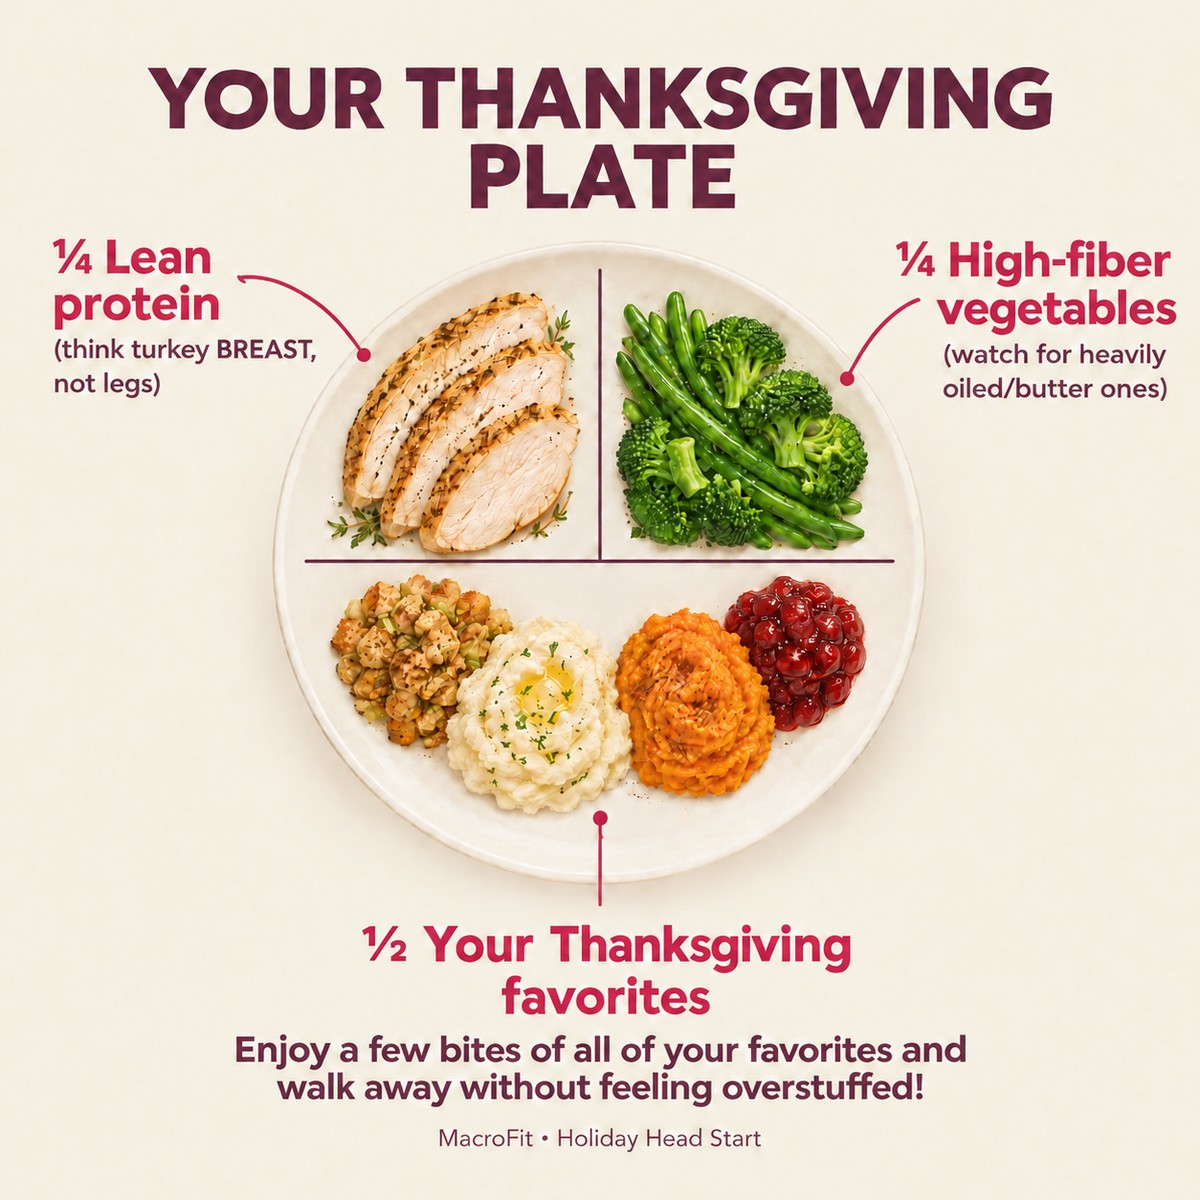
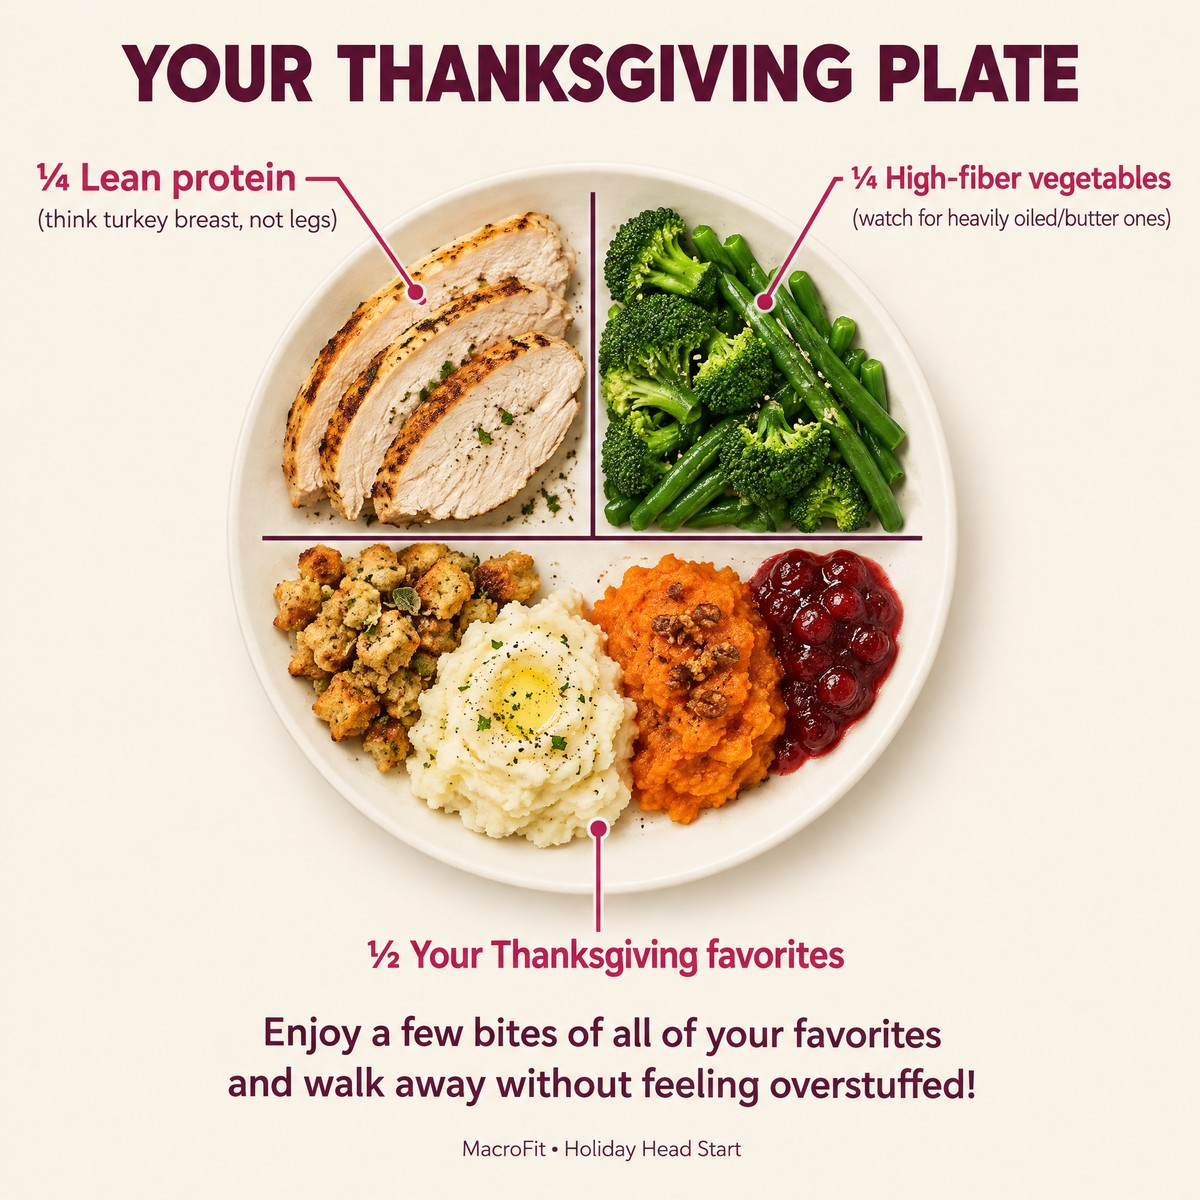
Use lowercase turkey breast in Thanksgiving email graphic

diff --git a/emails/holiday-head-start-week-6-monday.html b/emails/holiday-head-start-week-6-monday.html
@@ -50,7 +50,7 @@
 <tr><td class="mobile-pad" style="padding:36px 42px 28px; "><p style="margin:0 0 18px; font-family:Arial,Helvetica,sans-serif; font-size:18px; line-height:27px; font-weight:700; color:#2a2018;">Hey {{contact.first_name}},</p><p class="body-copy" style="margin:0 0 20px; font-family:Arial,Helvetica,sans-serif; font-size:16px; line-height:26px; color:#5f5247;">Welcome to the final week of Holiday Head Start!</p><p class="body-copy" style="margin:0 0 20px; font-family:Arial,Helvetica,sans-serif; font-size:16px; line-height:26px; color:#5f5247;">Thanksgiving week is the perfect time to practice what this challenge has been about from the beginning: food and real life do not have to be on opposite teams.</p><p class="body-copy" style="margin:0 0 0px; font-family:Arial,Helvetica,sans-serif; font-size:16px; line-height:26px; color:#5f5247;">You can enjoy Thanksgiving. You can eat at a restaurant. You can have family traditions. You can have a busy schedule. And you can still make choices that support how you want to feel.</p></td></tr>
 <tr><td class="mobile-pad" style="padding:0 42px 28px; "><table role="presentation" width="100%" cellspacing="0" cellpadding="0" border="0" style="width:100%; background:#fff8ed; border:1px solid #f1dfc6;"><tr><td class="card-pad" style="padding:24px 22px;"><h2 class="contest-heading" style="margin:0 0 18px; font-family:Arial,Helvetica,sans-serif; font-size:23px; line-height:30px; font-weight:800; color:#5c1f3a;">THIS WEEK’S CHALLENGE: THANKSGIVING GAME PLAN</h2><p class="body-copy" style="margin:0 0 20px; font-family:Arial,Helvetica,sans-serif; font-size:16px; line-height:26px; color:#5f5247;">Decide now:</p><ul style="padding-left:22px; margin:0; font-family:Arial,Helvetica,sans-serif; font-size:16px; line-height:26px; color:#5f5247;"><li style="margin:0 0 12px; padding-left:3px;">What meals will stay normal this week.</li><li style="margin:0 0 12px; padding-left:3px;">What foods you are actually excited to enjoy Thursday.</li><li style="margin:0 0 12px; padding-left:3px;">What you will skip because it is not worth it to you—not because you are punishing yourself.</li><li style="margin:0 0 0px; padding-left:3px;">What Friday looks like: a normal return to your plan, no guilt required.</li></ul></td></tr></table></td></tr>
 <tr><td class="mobile-pad" style="padding:0 42px 28px; "><p class="body-copy" style="margin:0 0 0px; font-family:Arial,Helvetica,sans-serif; font-size:16px; line-height:26px; color:#5f5247;">You do not need to “make up for” Thanksgiving. You don’t need to “earn” your food. You also don’t need to heavily restrict yourself afterwards. You just need to realize you <strong style="color:#5c1f3a;">CAN enjoy your day and get right back on plan on Friday.</strong> If you have multiple events to attend, make smart choices with your food!</p></td></tr>
-<tr><td style="padding:0 0 28px; background:#fbf5ee;"><img id="thanksgiving-plate" src="https://macrofitprogram.com/manus-storage/holiday-head-start-thanksgiving-plate_2889b118.jpg" width="600" height="600" alt="Your Thanksgiving plate: ¼ lean protein (think turkey breast, not legs), ¼ high-fiber vegetables (watch for heavily oiled/butter ones), and ½ your Thanksgiving favorites. Enjoy a few bites of all of your favorites and walk away without feeling overstuffed!" style="display:block; width:100%; max-width:600px; height:auto; border:0;" /></td></tr>
+<tr><td style="padding:0 0 28px; background:#fbf5ee;"><img id="thanksgiving-plate" src="https://macrofitprogram.com/manus-storage/holiday-head-start-thanksgiving-plate_0b6f8ef5.jpg" width="600" height="600" alt="Your Thanksgiving plate: ¼ lean protein (think turkey breast, not legs), ¼ high-fiber vegetables (watch for heavily oiled/butter ones), and ½ your Thanksgiving favorites. Enjoy a few bites of all of your favorites and walk away without feeling overstuffed!" style="display:block; width:100%; max-width:600px; height:auto; border:0;" /></td></tr>
 <tr><td class="mobile-pad" style="padding:0 42px 28px; "><h2 class="contest-heading" style="margin:0 0 18px; font-family:Arial,Helvetica,sans-serif; font-size:23px; line-height:30px; font-weight:800; color:#5c1f3a;">HERE’S HOW I APPROACH MY THANKSGIVING PLATE</h2><p class="body-copy" style="margin:0 0 20px; font-family:Arial,Helvetica,sans-serif; font-size:16px; line-height:26px; color:#5f5247;">Keep it simple:</p><ul style="padding-left:22px; margin:0; font-family:Arial,Helvetica,sans-serif; font-size:16px; line-height:26px; color:#5f5247;"><li style="margin:0 0 12px; padding-left:3px;">Fill about ¼ of your plate with lean protein.</li><li style="margin:0 0 12px; padding-left:3px;">Fill about ¼ with high-fiber vegetables. When you have the option, go a little lighter on the oil and butter.</li><li style="margin:0 0 0px; padding-left:3px;">Use the rest of your plate for the things you actually want! Yes, your Thanksgiving favorites belong there, too.</li></ul></td></tr>
 <tr><td class="mobile-pad" style="padding:0 42px 28px; "><p class="body-copy" style="margin:0 0 20px; font-family:Arial,Helvetica,sans-serif; font-size:16px; line-height:26px; color:#5f5247;">I personally get just one spoonful of all the things I want to try. That gives me about two bites of everything so I can enjoy it all without ending up overstuffed and miserable.</p><p class="body-copy" style="margin:0 0 20px; font-family:Arial,Helvetica,sans-serif; font-size:16px; line-height:26px; color:#5f5247;">I use the same philosophy with desserts! I’d rather have a little of the things I’m excited about and actually enjoy them than load up a plate and feel uncomfortable afterward.</p><p class="body-copy" style="margin:0 0 0px; font-family:Arial,Helvetica,sans-serif; font-size:16px; line-height:26px; color:#5f5247;">Remember that your eyes can be bigger than your stomach. What we <strong style="color:#5c1f3a;">WANT</strong> to eat and what we <strong style="color:#5c1f3a;">CAN</strong> eat while still feeling great are often two different things.</p></td></tr>
 <tr><td class="mobile-pad" style="padding:25px 42px; background:#fff8ed; border-top:1px solid #f1dfc6; border-bottom:1px solid #f1dfc6;"><p class="body-copy" style="margin:0 0 0px; font-family:Arial,Helvetica,sans-serif; font-size:16px; line-height:26px; color:#5f5247;"><strong style="color:#5c1f3a;">The goal isn’t to leave Thanksgiving feeling deprived. It’s to leave feeling satisfied—not like you need to unbutton your pants and lie down for three hours!</strong></p></td></tr>

diff --git a/Holiday_Head_Start_Complete_Copy_Review.md b/Holiday_Head_Start_Complete_Copy_Review.md
@@ -835,7 +835,7 @@ Thanksgiving is part of real life—not a detour from it. Tonight, decide which 
 **Subject B (proposed):** Enjoy Thanksgiving. Keep your momentum.  
 **Preview text:** Your Thanksgiving game plan, plate tips, and a normal return to your plan on Friday.  
 **Primary CTA:** Open Your Thanksgiving Game Plan → https://macrofitprogram.com/holiday-head-start/app  
-**Graphic:** `emails/assets/holiday-head-start-thanksgiving-plate.jpg` — quarter lean protein (turkey breast, not legs), quarter high-fiber vegetables (watch heavily oiled/butter ones), half Thanksgiving favorites. No corner leaves; revised caption supplied by Chelsea. Hosted URL: https://macrofitprogram.com/manus-storage/holiday-head-start-thanksgiving-plate_2889b118.jpg  
+**Graphic:** `emails/assets/holiday-head-start-thanksgiving-plate.jpg` — quarter lean protein (turkey breast, not legs), quarter high-fiber vegetables (watch heavily oiled/butter ones), half Thanksgiving favorites. No corner leaves; revised caption supplied by Chelsea. Hosted URL: https://macrofitprogram.com/manus-storage/holiday-head-start-thanksgiving-plate_0b6f8ef5.jpg  
 **App alignment:** Existing Week 6 Thanksgiving Game Plan, normal meals, enjoying Thanksgiving without guilt, and returning to normal the next day match this email. Bingo and the separate 20-point Side Quest are unchanged. No app edits or website publication performed; detailed plate illustration/tips are email additions.
 
 ### Copy
